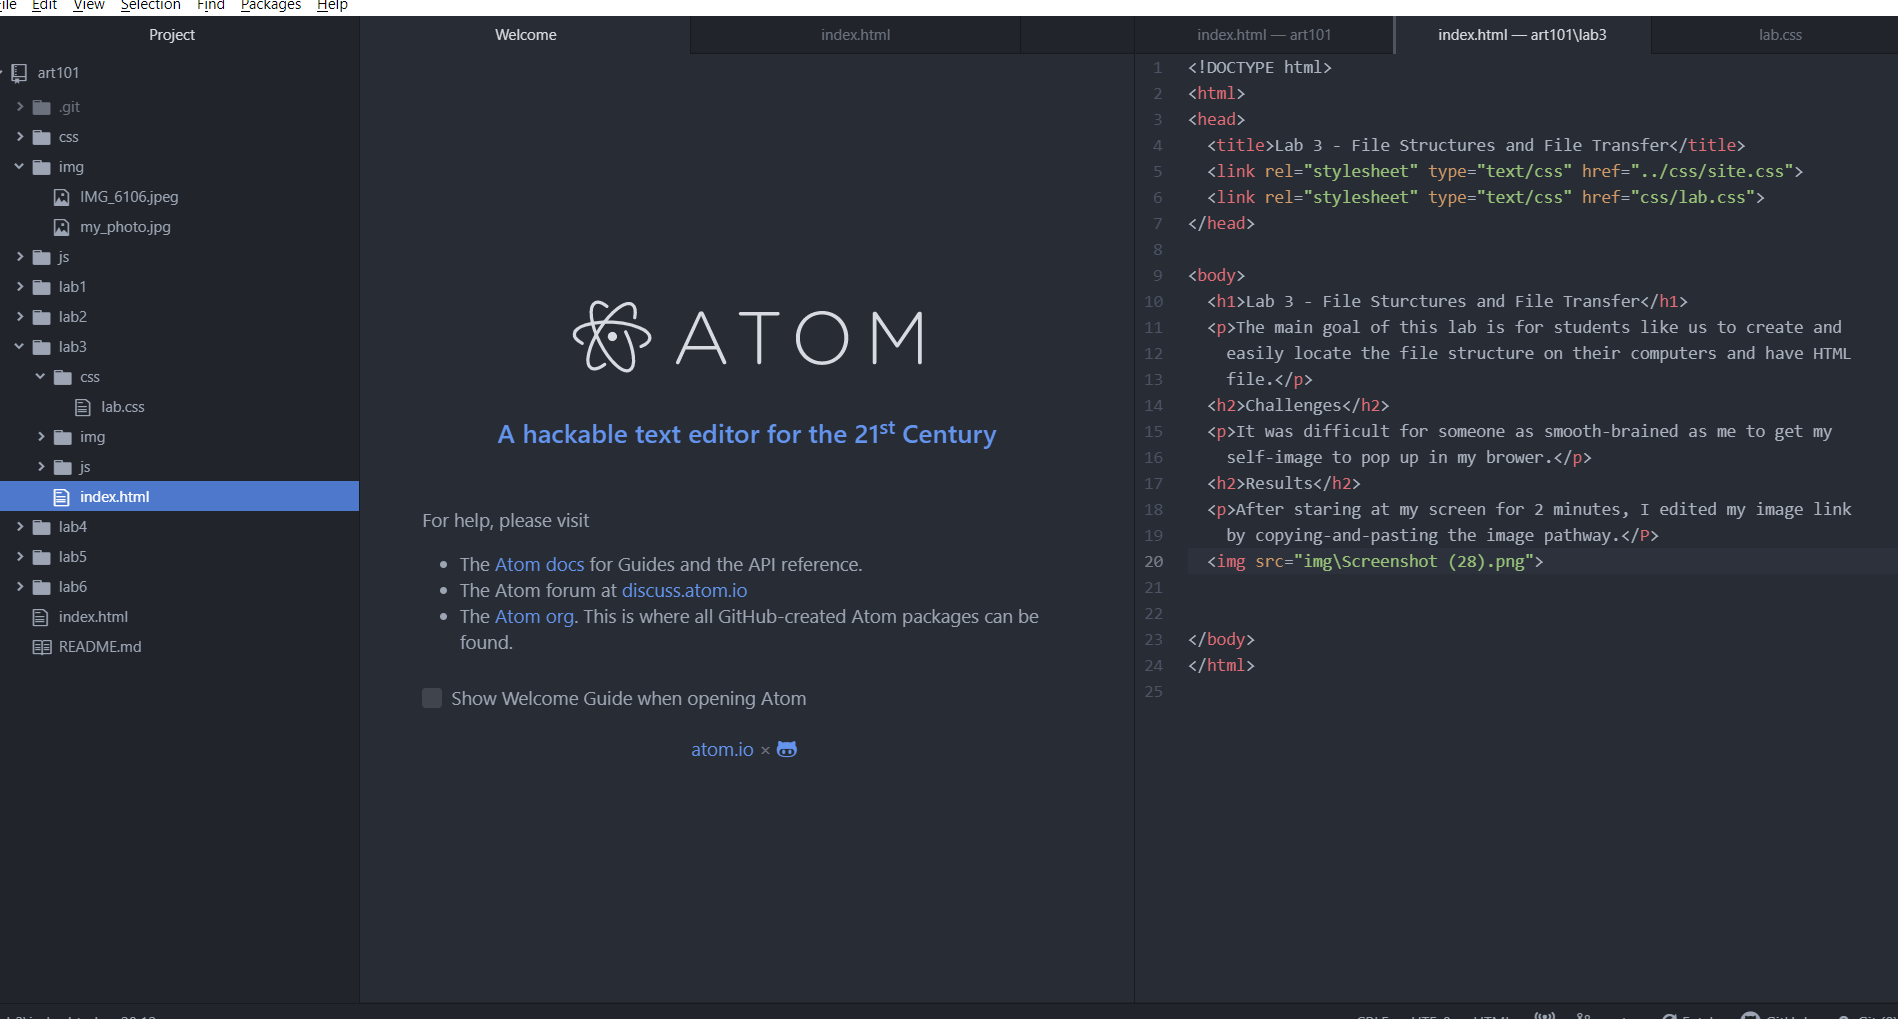
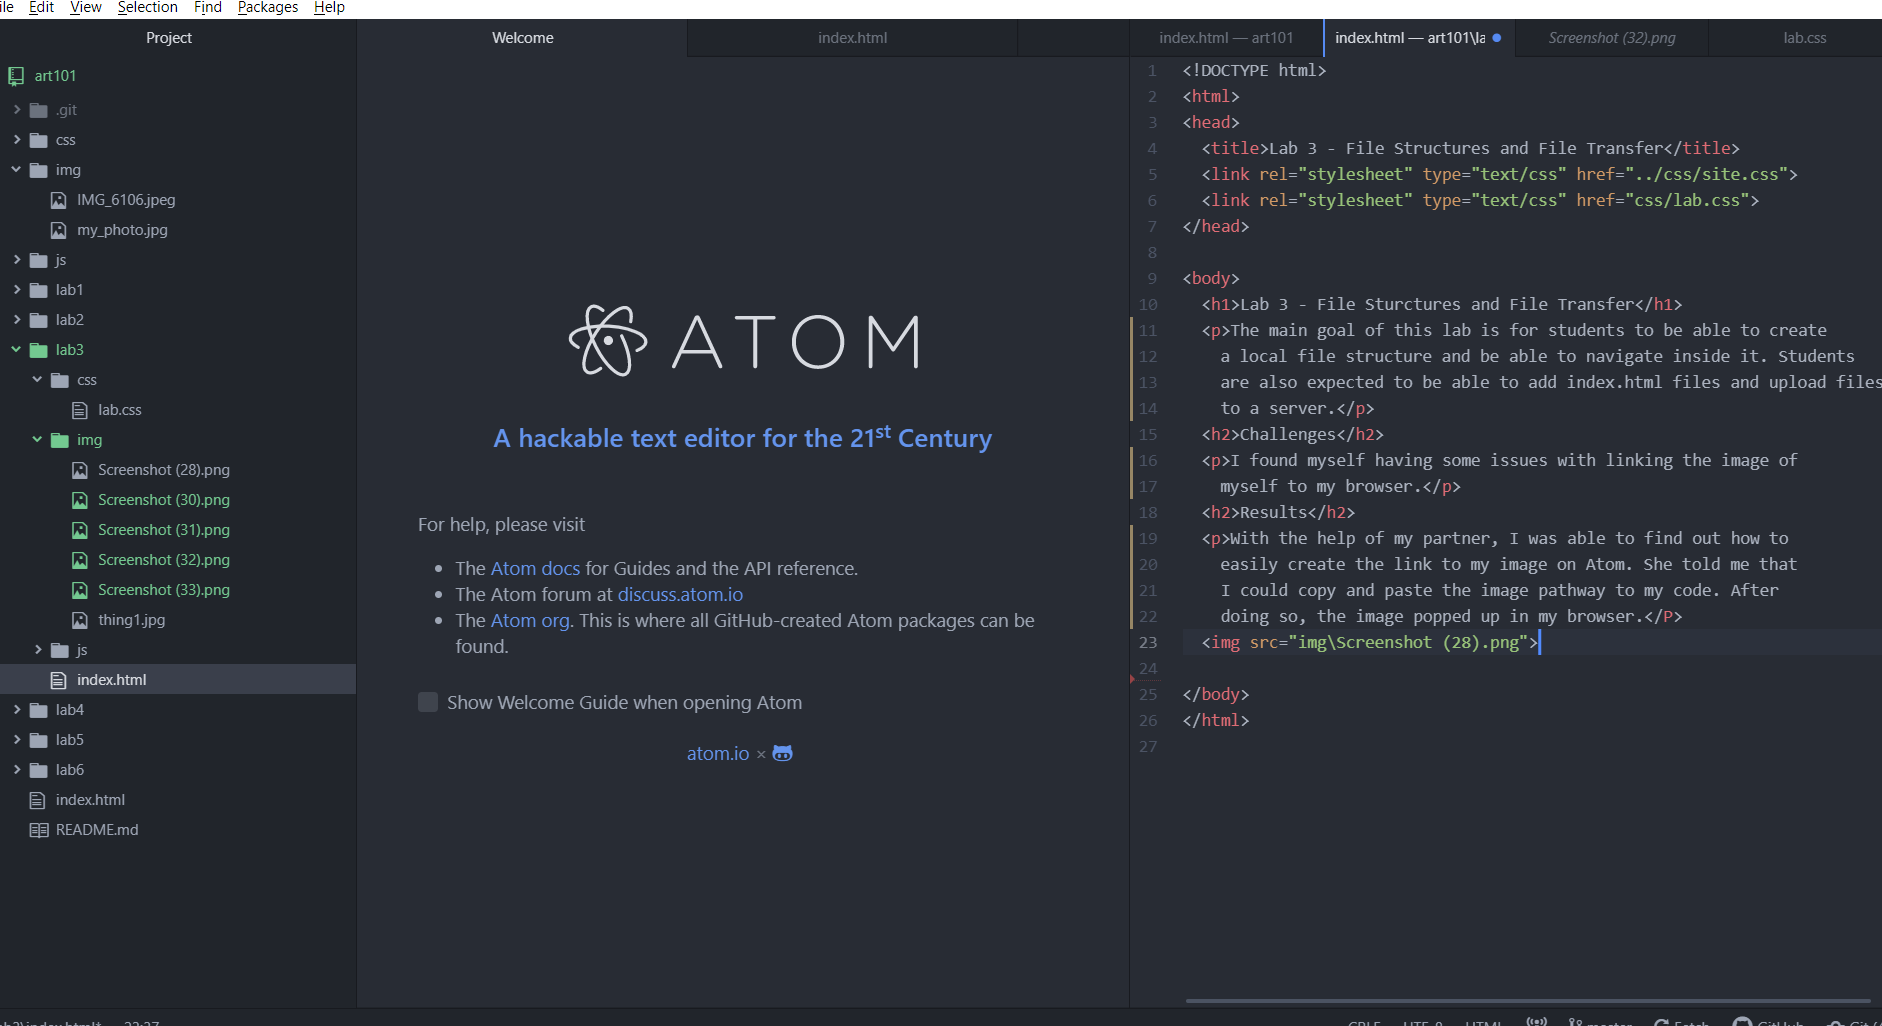
replacements and stuff

diff --git a/lab3/index.html b/lab3/index.html
@@ -21,6 +21,24 @@
 	  I could copy and paste the image pathway to my code. After
 	  doing so, the image popped up in my browser.</P>
 	<img src="img\Screenshot (28).png">
+	<p>This image shows the pathway of my art101 folder and the
+		layout of each child folder within.</p>
+	<img src="img\Screenshot (30).png">
+	<p>This image shows the coding for my browser in Atom. I added
+		an arbitrary heading, a paragraph about myself, and an image
+		of myself. The bulleted list of all the other labs have been
+		linked below my image.</p>
+	<img src="img\Screenshot (31).png">
+	<p>This image shows my browser, which accurately reflects what
+		I have done in my code on Atom.</p>
+	<img src="img\Screenshot (32).png">
+	<p>This image shows my coding in Atom for the index.html file
+		in the lab3 folder. The title of the lab is added at the top
+		and in the heading. The goal of the lab is stated underneath,
+	  with the challenges that I faced and the results of my work below.</p>
+	<img src="img\Screenshot (33).png">
+	<p>This image shows the browser of the index.html file
+		in the lab3 folder.
 
 </body>
 </html>
